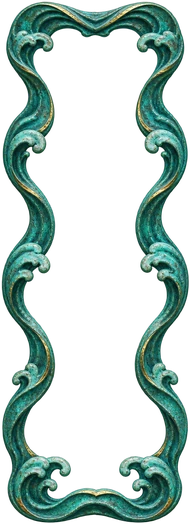
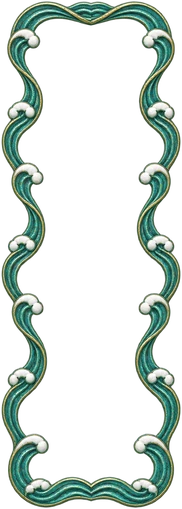
물결 카드 테두리를 일월오봉도 결로 바꿈 (Codex 74 · 우키요에 큰 파도처럼 보이던 것)
둥근 흰 물마루 · 위 가운데 물방울 셋. 칼·깃 테두리 파일은 바이트까지 그대로.

Claude-Session: https://claude.ai/code/session_01TRiuN7s6aDfSnaHxrkctmU

diff --git a/src/raid/card-skins.css b/src/raid/card-skins.css
@@ -1,4 +1,4 @@
-/* 51-1 갈래마다 모양이 다른 테두리 (흑백으로도 갈림): a 주 무기 = 칼날 모서리 쇠 테 + 환두 고리 · b 보조 = 물결 테 + 물보라 · c 버팀 = 가는 테에 깃·바람결 + 화살 깃 셋.
+/* 51-1 갈래마다 모양이 다른 테두리 (흑백으로도 갈림): a 주 무기 = 칼날 모서리 쇠 테 + 환두 고리 · b 보조 = 물결 테(11-22 일월오봉도 결 · Codex 74) + 물방울 셋 · c 버팀 = 가는 테에 깃·바람결 + 화살 깃 셋.
    원본 1024x1536(Codex 67)을 tools/sprite-kit/bake-branch-cards.py 가 나눈다: 테 줄은 border-image(모서리는 제 모양 · 사이 테 줄만 늘어남),
    가운데 장식(위 고리·물보라·깃 / 아래 장식 / 칼 테의 좌우 띠)은 늘리지 않고 ::before·::after 에 제 크기로 겹친다.
    --s: 원본 한 px 를 몇 CSS px 로 그리나 (넓은 화면 .13 · 낮은 가로 .11 · 세로 폰 줄 .085). 아래 숫자는 모두 원본 px (bake 의 json).
@@ -6,8 +6,8 @@
 .choices button.branch-card{--s:.13;border-style:solid;border-color:transparent;border-radius:0;border-width:calc(var(--s)*191px) calc(var(--s)*150px) calc(var(--s)*140px);background:linear-gradient(color-mix(in srgb,var(--c) 9%,#17251d),color-mix(in srgb,var(--c) 4%,#0a1714));background-clip:padding-box}
 .choices button.branch-a{border-image:url('/realm/raid/ui-card-branch-a.webp') 110 48 88 48/calc(var(--s)*292px) calc(var(--s)*128px) calc(var(--s)*236px) calc(var(--s)*128px) stretch;
   --crest:url('/realm/raid/ui-card-branch-a-crest.webp');--crest-w:526;--crest-h:288;--crest-top:-80;--base:url('/realm/raid/ui-card-branch-a-base.webp');--base-w:526;--base-h:106;--base-bottom:46}
-.choices button.branch-b{border-image:url('/realm/raid/ui-card-branch-b.webp') 94 56 88 56/calc(var(--s)*250px) calc(var(--s)*150px) calc(var(--s)*236px) calc(var(--s)*150px) stretch;
-  --crest:url('/realm/raid/ui-card-branch-b-crest.webp');--crest-w:515;--crest-h:214;--crest-top:-109;--base:url('/realm/raid/ui-card-branch-b-base.webp');--base-w:515;--base-h:130;--base-bottom:0}
+.choices button.branch-b{border-image:url('/realm/raid/ui-card-branch-b.webp') 52 52 60 52/calc(var(--s)*140px) calc(var(--s)*140px) calc(var(--s)*160px) calc(var(--s)*140px) stretch;
+  --crest:url('/realm/raid/ui-card-branch-b-crest.webp');--crest-w:515;--crest-h:214;--crest-top:-122;--base:url('/realm/raid/ui-card-branch-b-base.webp');--base-w:515;--base-h:130;--base-bottom:-26}
 .choices button.branch-c{border-image:url('/realm/raid/ui-card-branch-c.webp') 109 71 90 71/calc(var(--s)*290px) calc(var(--s)*190px) calc(var(--s)*240px) calc(var(--s)*190px) stretch;
   --crest:url('/realm/raid/ui-card-branch-c-crest.webp');--crest-w:364;--crest-h:218;--crest-top:-12;--base:url('/realm/raid/ui-card-branch-c-base.webp');--base-w:364;--base-h:76;--base-bottom:10}
 /* 위 가운데 장식 — 테 상자 위로 솟는다(칼 고리·물보라) · 갈래 끝 카드는 그 자리에 「갈래 끝」 띠가 있어 그리지 않는다 */

diff --git a/tools/sprite-kit/bake-branch-cards.py b/tools/sprite-kit/bake-branch-cards.py
@@ -25,7 +25,9 @@ SCALE, PAD, ALPHA = .375, 3, 8
 BRANCHES = {
     'a': {'src': 'sword', 'cols': (250, 776), 'crest': (4, 292), 'base': (1374, 1480), 'rows': (736, 870), 'band': ((52, 150), (874, 972)),
           'slice': (292, 128, 236, 128)},
-    'b': {'src': 'wave', 'cols': (255, 770), 'crest': (4, 218), 'base': (1380, 1510), 'slice': (250, 150, 236, 150)},
+    # 11-22 Codex 74: 물결을 일월오봉도 결(둥근 흰 물마루 · 위 물방울 셋)로 다시 그림 — 우키요에 「큰 파도」처럼 보이던 51 판 대신
+    'b': {'src': 'wave', 'file': 'branch-card-wave-74.png', 'archive': 'D:/에셋창고/codex74/branch-card-wave-74.png',
+          'cols': (255, 770), 'crest': (4, 218), 'base': (1380, 1510), 'slice': (140, 140, 160, 140)},
     'c': {'src': 'tempo', 'cols': (330, 694), 'crest': (4, 222), 'base': (1432, 1508), 'slice': (290, 190, 240, 190)},
 }
 
@@ -39,13 +41,13 @@ def save(rgba, name):
 
 def bake(letter):
     cfg = BRANCHES[letter]
-    src = SRC / f'branch-card-{cfg["src"]}-51.png'
+    src = SRC / cfg.get('file', f'branch-card-{cfg["src"]}-51.png')
     a = np.array(Image.open(src).convert('RGBA'))
     a[a[..., 3] < ALPHA] = 0
     H, W = a.shape[:2]
     c0, c1 = cfg['cols']
     row = {'branch': letter, 'source': str(src.relative_to(ROOT)).replace('\\', '/'), 'sourceSha256': hashlib.sha256(src.read_bytes()).hexdigest(),
-           'archive': f'D:/에셋창고/codex67/branch-card-{cfg["src"]}-51.png', 'nativeSize': [W, H], 'scale': SCALE, 'pieces': {}}
+           'archive': cfg.get('archive', f'D:/에셋창고/codex67/branch-card-{cfg["src"]}-51.png'), 'nativeSize': [W, H], 'scale': SCALE, 'pieces': {}}
     # 테두리: 가운데 열·줄을 빼고 맞붙임 (남는 칸 차례 그대로)
     keep_x = np.r_[0:c0, c1:W]
     keep_y = np.r_[0:H] if 'rows' not in cfg else np.r_[0:cfg['rows'][0], cfg['rows'][1]:H]
